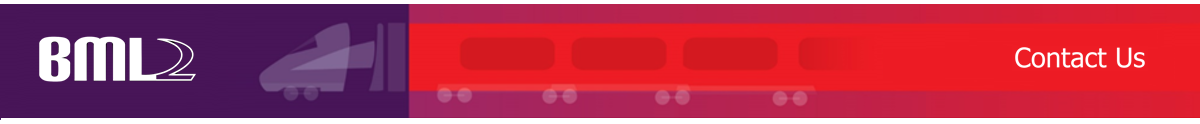
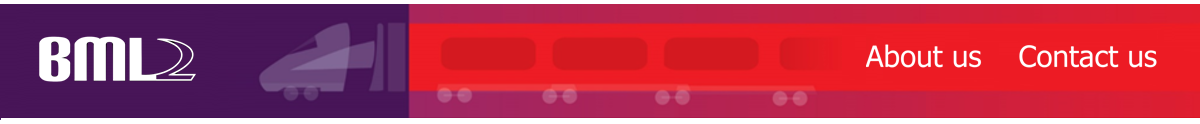
fix links QT for iPad 2

diff --git a/index.html b/index.html
@@ -139,9 +139,9 @@
           <section id="columnsdemo" style="width:100%" class="clearfix">
           <div class="grid_12"><a href="http://www.creegc.com/en/tabid/173/Default.aspx" target="_blank"><img src="images/logoname.png" usemap="#logos"/></a>
           <map name="logos">
-    			<area shape="rect" coords="30,25,162,67" href="http://www.creegc.com/en/tabid/173/Default.aspx" target="_blank" title="" alt="" />
-    			<area shape="rect" coords="195,24,253,67" href="http://www.creegc.com/en/tabid/173/Default.aspx" target="_blank" title="" alt="" />
-    			<area shape="rect" coords="288,16,342,70" href="http://www.creegc.com/en/tabid/173/Default.aspx" target="_blank" title="" alt="" />
+    			<area shape="rect" coords="30,25,162,67" href="http://www.creegc.com/en/tabid/173/Default.aspx" target="_blank" style="outline:none;" title="" alt="" />
+    			<area shape="rect" coords="195,24,253,67" href="http://www.creegc.com/en/tabid/173/Default.aspx" target="_blank" style="outline:none;" title="" alt="" />
+    			<area shape="rect" coords="288,16,342,70" href="http://www.creegc.com/en/tabid/173/Default.aspx" target="_blank" style="outline:none;" title="" alt="" />
     		</map>
 
           </div>
@@ -155,7 +155,8 @@
     <map name="logosbottom">
     			<area shape="rect" coords="42,31,175,80" href="http://www.bml2.co.uk/" target="_blank" title="" alt="" />
           <!-- <area shape="rect" coords="805,41,1085,62" href="mailto:info%40londonscr.co.uk?subject=website&body=" id="myBtn" title="" alt="" /> -->
-    			<area shape="rect" coords="805,41,1085,62" href="#" id="myBtn" title="" alt="" />
+    			<area shape="rect" coords="952,14,1117,106" href="#" id="myBtn" style="outline:none;" title="" alt="" />
+          <area shape="rect" coords="770,14,935,105" href="#" id="myBtn" style="outline:none;" title="" alt="" />
     		</map>
            </div>
       </div>
@@ -300,7 +301,7 @@ function fallback(video) {
 
 // console.log(ua.indexOf('chrome'))
   // -1 - not found
-  if (ua.indexOf('safari') !== -1 && ua.indexOf('chrome') == -1 && ua.indexOf('silk') == -1 && ua.indexOf('windows') !== -1) {
+  if (ua.indexOf('safari') !== -1 && ua.indexOf('chrome') == -1 && ua.indexOf('silk') == -1 && ua.indexOf('windows') !== -1 && ua.indexOf('ipad') == -1 && ua.indexOf('mobile') == -1) {
     if (pluginlist.indexOf("QuickTime") == -1) {
       var er = '<a id="errorMsg" href="https://www.apple.com/ru/quicktime/" target="_blank" style="margin: 25% 25%">You cannot see the video because you do not have QuickTime installed!</a></br><a id="errorMsg" href="https://support.apple.com/kb/DL837?locale=en_US" target="_blank" style="margin: 15% 30%">Click here to download QuickTime for Windows!</a>';
       qtMsg.innerHTML = er;

diff --git a/about.js b/about.js
@@ -1,0 +1,6 @@
+const products = [
+  {
+    
+  }
+]
+export default products;
